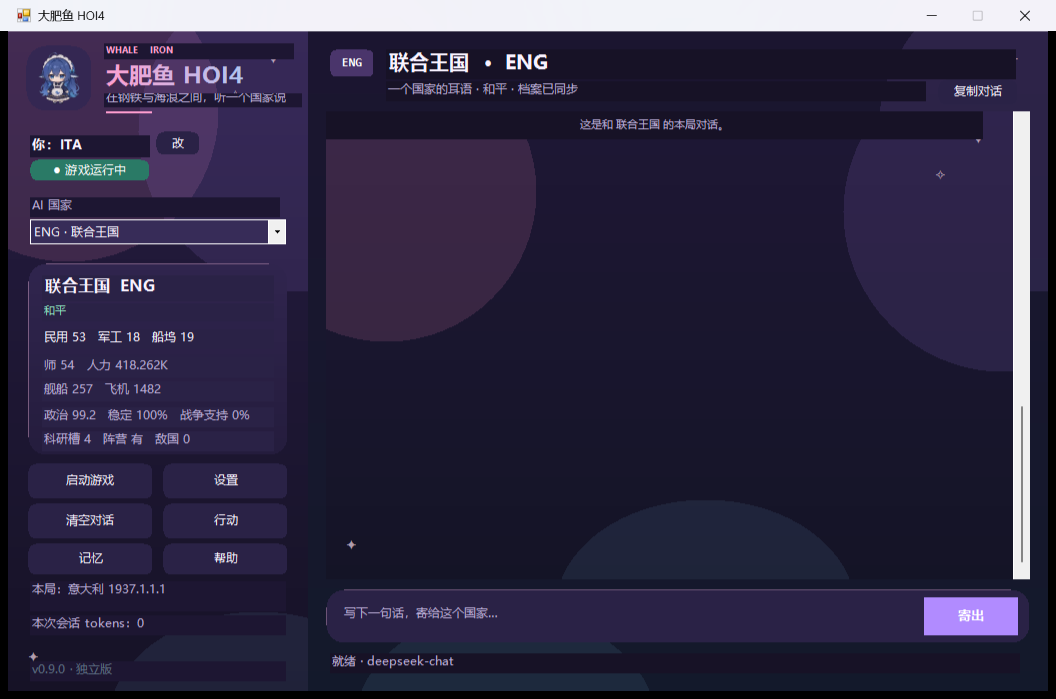
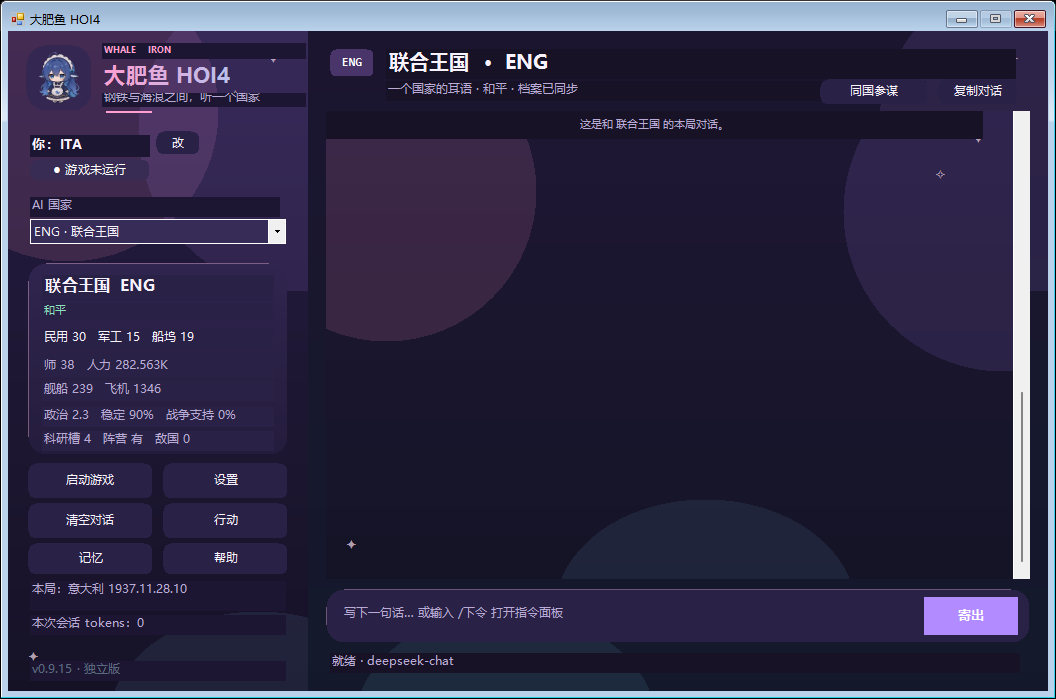
v0.9.16: fix clipped top-left title/subtitle

diff --git a/README.md b/README.md
@@ -2,7 +2,7 @@
 
 让《钢铁雄心 4》里的 AI 国家真正“会说话”：你玩一个国家，DeepSeek 扮演另一个国家；它读取自己的工厂、师、船、飞机、战争和阵营状态，记住你说过的话，和你谈判、拒绝、提条件。
 
-**公开 Beta：v0.9.15**
+**公开 Beta：v0.9.16**
 
 > 这是独立项目，不依赖 NationMind。自己的配套 mod（`DFY|` 日志协议）+ 自己的外部 Windows 软件。
 >
@@ -174,8 +174,8 @@ dafeiyu-hoi4/
 
 ## 发布
 
-- GitHub Release：https://github.com/QuanWander/dafeiyu-hoi4/releases/tag/v0.9.15
-- 资产：`DaFeiYuHOI4-v0.9.15.zip`、`SHA256SUMS.txt`
+- GitHub Release：https://github.com/QuanWander/dafeiyu-hoi4/releases/tag/v0.9.16
+- 资产：`DaFeiYuHOI4-v0.9.16.zip`、`SHA256SUMS.txt`
 - 发布说明：[RELEASE_NOTES.md](RELEASE_NOTES.md)
 
 ## License

diff --git a/CHANGELOG.md b/CHANGELOG.md
@@ -1,5 +1,10 @@
 # Changelog
 
+## v0.9.16 — 2026-11-08
+
+- 修复左上角标题/副标题被 300px 侧栏裁切：标题字号 17→16，标题/副标题宽度放宽，副标题缩短为“钢铁与海浪之间，听一个国家”。
+- 更新主界面截图。
+
 ## v0.9.15 — 2026-11-08
 
 - 参谋资料面板自动显示当前玩家国；
